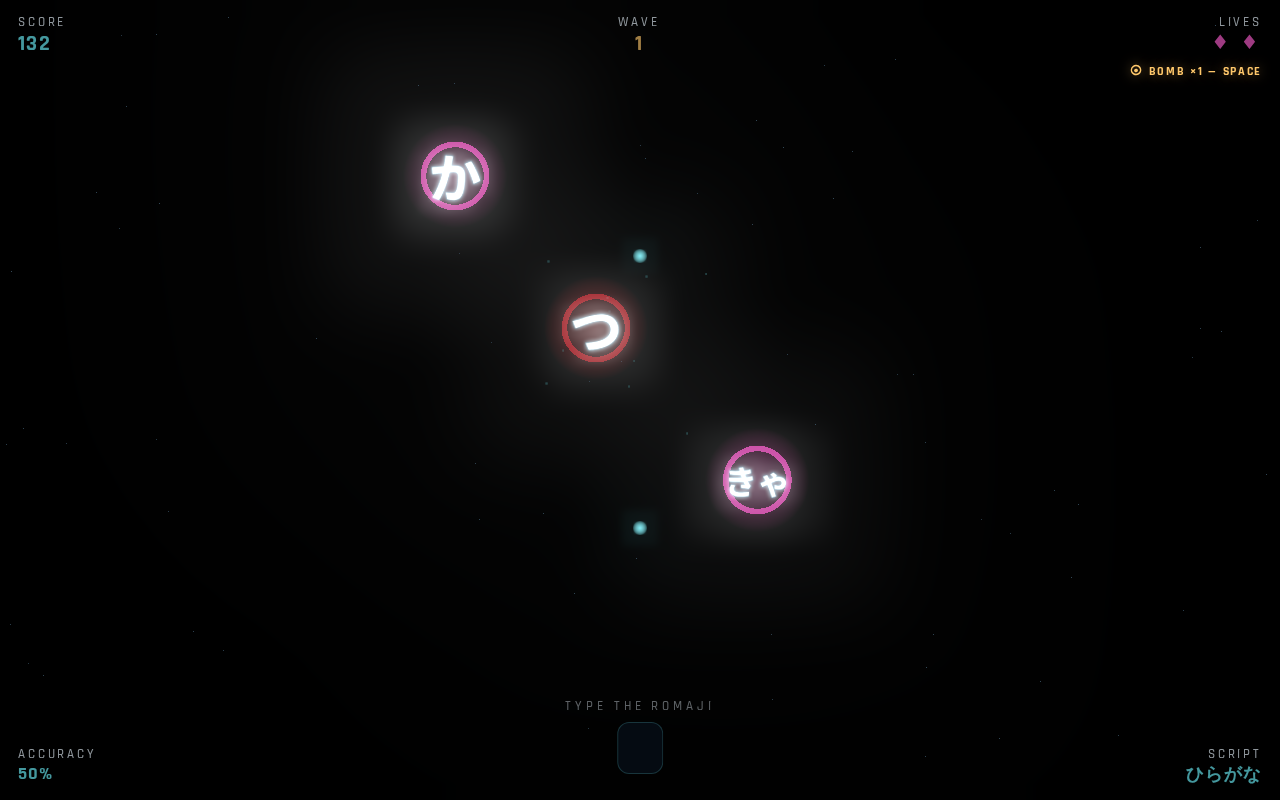
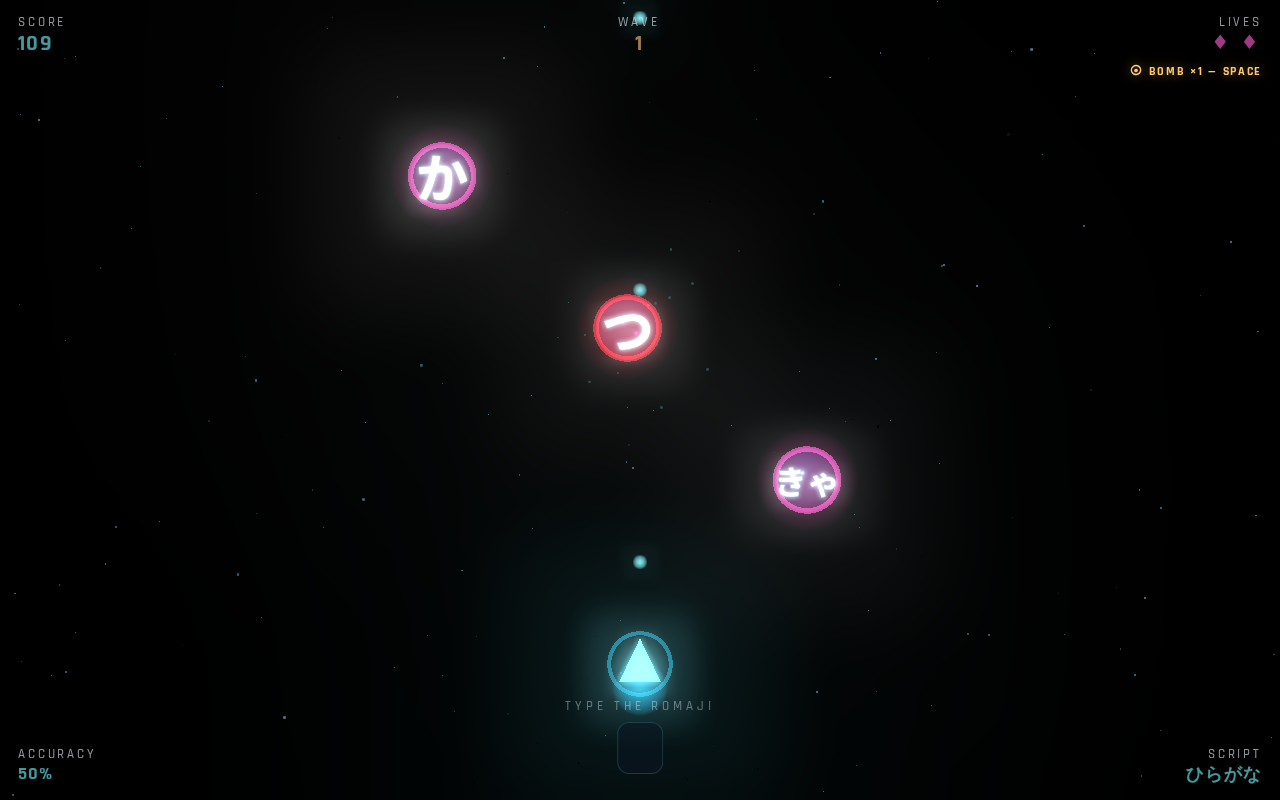
Make enemy bubbles actual lit 3D spheres, add a twinkling starfield
The enemy "bubble" was always just a flat ring + glowing glyph plane. It's
now a real MeshPhysicalMaterial sphere sunk just behind the ring/glyph, lit
by a couple of scene-only directional lights, so it shows a genuine
highlight/shadow gradient instead of a flat disc. Its tint now also follows
the same target/near-match/wounded state as the ring, and the ring itself
got a slight 3D tilt so it reads as wrapping the sphere.

Also reworked the starfield from a single flat-opacity PointsMaterial into a
small custom shader so each star twinkles on its own phase, with more stars
and a size bias toward mostly-small-with-a-few-bright ones for added depth.

Claude-Session: https://claude.ai/code/session_019cpcKUdB5Yisp8d3dSsc5r

diff --git a/index.html b/index.html
@@ -480,6 +480,17 @@ app.appendChild(renderer.domElement);
 const scene = new THREE.Scene();
 scene.fog = new THREE.FogExp2(0x05060b, 0.0032);
 
+// Everything else in the scene is unlit (MeshBasicMaterial/Sprite), so these
+// only matter to the enemy bubble's lit sphere below — they give it an actual
+// shaded highlight/terminator instead of a flat silhouette.
+scene.add(new THREE.AmbientLight(0x2a3660, 1.1));
+const bubbleKey = new THREE.DirectionalLight(0xbfe9ff, 1.8);
+bubbleKey.position.set(-20, 30, 60);
+scene.add(bubbleKey);
+const bubbleRim = new THREE.DirectionalLight(0xff6fe0, 0.8);
+bubbleRim.position.set(25, -15, 40);
+scene.add(bubbleRim);
+
 // Orthographic, height fixed at VIEW_H world units — the play field never
 // changes size with the window, only its width does.
 const VIEW_H = 100;
@@ -511,21 +522,49 @@ function radialTexture(inner = 'rgba(255,255,255,1)', outer = 'rgba(255,255,255,
 const GLOW_TEX = radialTexture('rgba(255,255,255,0.95)', 'rgba(255,255,255,0)');
 
 /* ---------- starfield ---------- */
+// A custom shader instead of PointsMaterial so each star can twinkle on its
+// own phase (aPhase/aSize, driven by uTime) rather than the whole field
+// fading in lockstep.
 const starGeo = new THREE.BufferGeometry();
 {
-  const N = 420, pos = new Float32Array(N * 3);
+  const N = 900, pos = new Float32Array(N * 3), phase = new Float32Array(N), size = new Float32Array(N);
   for (let i = 0; i < N; i++){
     pos[i * 3]     = (Math.random() - 0.5) * 340;
     pos[i * 3 + 1] = (Math.random() - 0.5) * 240;
     pos[i * 3 + 2] = -60 - Math.random() * 140;
+    phase[i] = Math.random() * Math.PI * 2;
+    size[i] = 0.55 + Math.random() * Math.random() * 2.2; // squared bias: mostly small, a few standout bright ones
   }
   starGeo.setAttribute('position', new THREE.BufferAttribute(pos, 3));
+  starGeo.setAttribute('aPhase', new THREE.BufferAttribute(phase, 1));
+  starGeo.setAttribute('aSize', new THREE.BufferAttribute(size, 1));
 }
-const stars = new THREE.Points(starGeo, new THREE.PointsMaterial({
-  color: 0x9fd8ff, size: 0.9, sizeAttenuation: true,
-  transparent: true, opacity: 0.65, depthWrite: false,
-  blending: THREE.AdditiveBlending, map: GLOW_TEX,
-}));
+const starMat = new THREE.ShaderMaterial({
+  uniforms: { uTime: { value: 0 }, map: { value: GLOW_TEX }, color: { value: new THREE.Color(0x9fd8ff) } },
+  vertexShader: `
+    attribute float aPhase;
+    attribute float aSize;
+    uniform float uTime;
+    varying float vTwinkle;
+    void main(){
+      vTwinkle = 0.45 + 0.55 * sin(uTime * 1.4 + aPhase);
+      vec4 mvPosition = modelViewMatrix * vec4(position, 1.0);
+      gl_PointSize = aSize * (260.0 / -mvPosition.z);
+      gl_Position = projectionMatrix * mvPosition;
+    }
+  `,
+  fragmentShader: `
+    uniform sampler2D map;
+    uniform vec3 color;
+    varying float vTwinkle;
+    void main(){
+      vec4 tex = texture2D(map, gl_PointCoord);
+      gl_FragColor = vec4(color, tex.a * vTwinkle * 0.75);
+    }
+  `,
+  transparent: true, depthWrite: false, blending: THREE.AdditiveBlending,
+});
+const stars = new THREE.Points(starGeo, starMat);
 scene.add(stars);
 
 /* ---------- kana sprite ---------- */
@@ -658,6 +697,20 @@ function updateEffects(dt){
 const enemies = [];
 function spawnEnemy(entry, speed){
   const g = new THREE.Group();
+
+  // The bubble's actual body: a real lit sphere (see the lights above), sunk
+  // behind the ring/glyph so its near cap sits just short of them — in the
+  // orthographic camera its silhouette is still a full circle regardless of
+  // that depth, so nothing about its on-screen size changes.
+  const bubble = new THREE.Mesh(
+    new THREE.SphereGeometry(4, 28, 20),
+    new THREE.MeshPhysicalMaterial({ color: 0x3c4f8c, transparent: true, opacity: 0.8,
+      roughness: 0.3, metalness: 0.1, clearcoat: 0.7, clearcoatRoughness: 0.2,
+      depthWrite: false })
+  );
+  bubble.position.z = -4.2;
+  g.add(bubble);
+
   const plane = new THREE.Mesh(
     new THREE.PlaneGeometry(9.5, 9.5),
     new THREE.MeshBasicMaterial({ map: kanaTexture(entry.glyph), transparent: true,
@@ -671,6 +724,7 @@ function spawnEnemy(entry, speed){
     new THREE.MeshBasicMaterial({ color: 0xff5fd2, transparent: true, opacity: 0.7,
       side: THREE.DoubleSide, blending: THREE.AdditiveBlending, depthWrite: false })
   );
+  ring.rotation.x = 0.2; // a slight tilt so it reads as wrapping the sphere, not flat-on
   g.add(ring);
 
   const halo = new THREE.Sprite(new THREE.SpriteMaterial({
@@ -685,7 +739,7 @@ function spawnEnemy(entry, speed){
   scene.add(g);
 
   enemies.push({
-    g, plane, ring, halo, entry,
+    g, bubble, plane, ring, halo, entry,
     x0: x, y: g.position.y,
     speed, drift: 0.5 + Math.random() * 1.1,
     phase: Math.random() * Math.PI * 2,
@@ -1210,10 +1264,14 @@ function update(dt){
       e.ring.material.color.setHex(0xff3344);
       e.ring.material.opacity = pulse;
       e.halo.material.color.setHex(0xff3344);
+      e.bubble.material.emissive.setHex(0xff3344);
+      e.bubble.material.emissiveIntensity = pulse * 0.8;
     } else {
       e.ring.material.color.setHex(isTarget ? 0x7dffb0 : nearMatch ? 0x9ff6ff : 0xff5fd2);
       e.ring.material.opacity = isTarget ? 1 : nearMatch ? 0.85 : 0.6;
       e.halo.material.color.setHex(isTarget ? 0x7dffb0 : 0xff5fd2);
+      e.bubble.material.emissive.setHex(isTarget ? 0x7dffb0 : 0xff5fd2);
+      e.bubble.material.emissiveIntensity = isTarget ? 0.35 : 0.15;
     }
 
     // Escaped the field.
@@ -1320,6 +1378,7 @@ const clock = new THREE.Clock();
 function tick(){
   requestAnimationFrame(tick);
   const dt = Math.min(clock.getDelta(), 0.05);
+  starMat.uniforms.uTime.value += dt;
   if (S.running && !S.paused) update(dt);
   else { updateEffects(dt); stars.rotation.z += dt * 0.01; }
   if (composer) composer.render(); else renderer.render(scene, camera);
